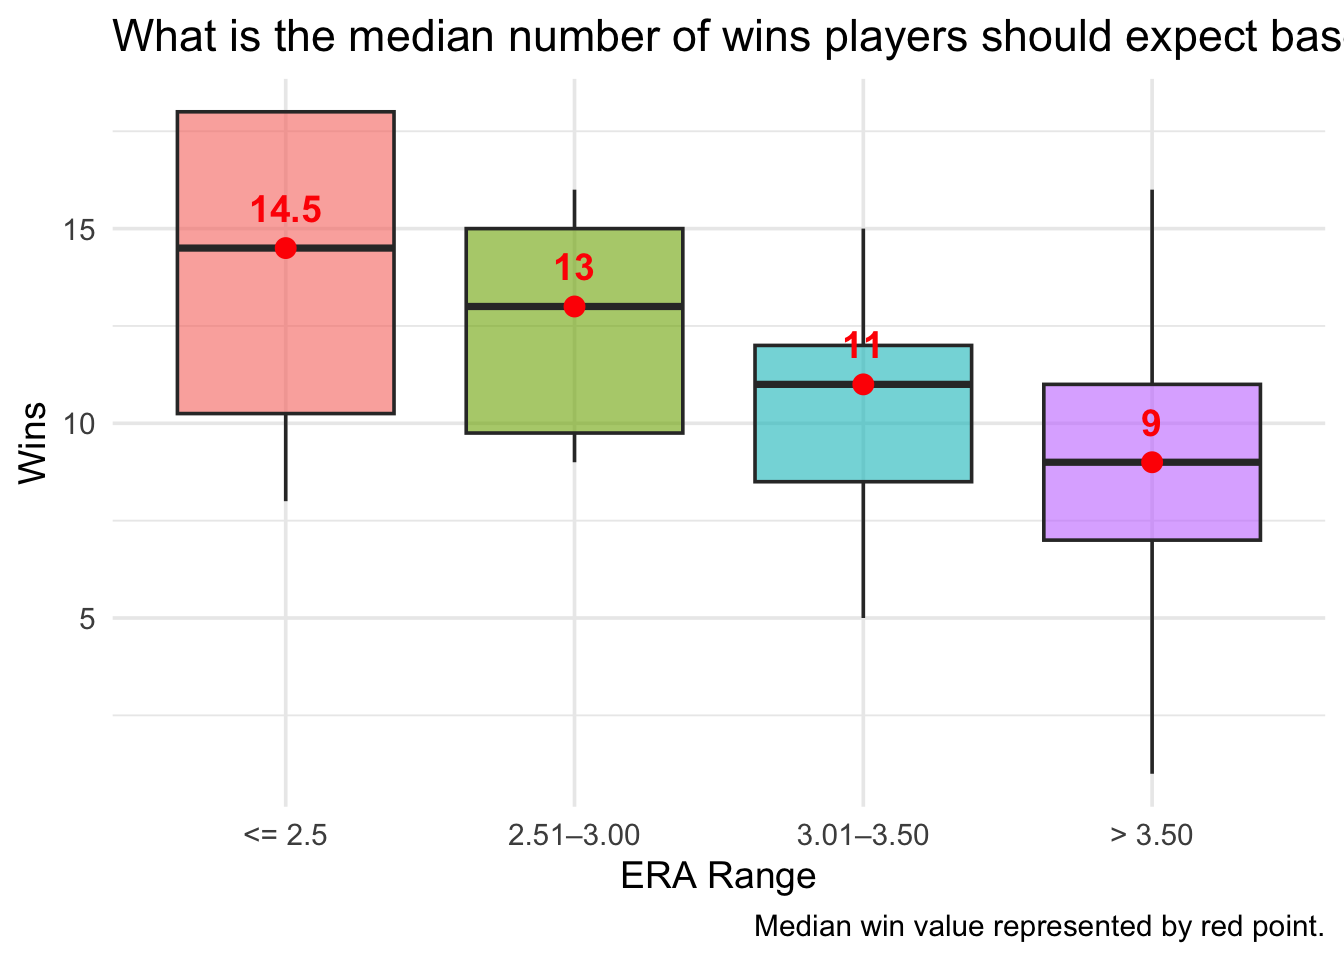
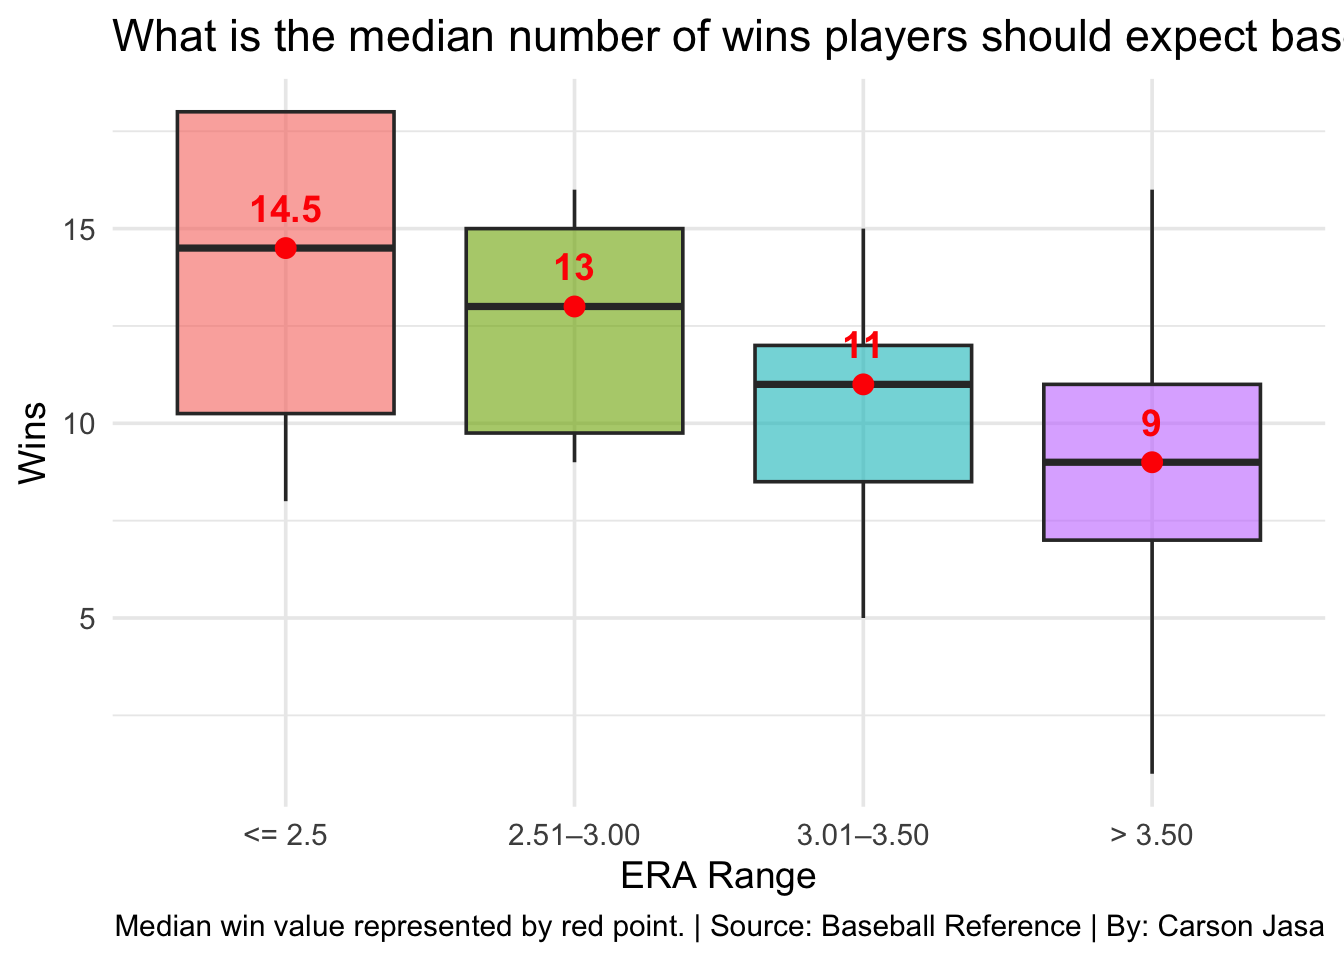
final commit for real

Changed region(s): [[0.5312, 0.9375, 1.0, 1.0], [0.0938, 0.9375, 0.5, 1.0]]

diff --git a/posts/mlb-pitching-wins-era-difference/index.html b/posts/mlb-pitching-wins-era-difference/index.html
@@ -183,7 +183,7 @@ pre > code.sourceCode > span > a:first-child::before { text-decoration: underlin
 <span id="cb1-11"><a href="#cb1-11" aria-hidden="true" tabindex="-1"></a>    <span class="at">title =</span> <span class="st">"MLB's 30 best starters ERA and how many wins they earned."</span> ,</span>
 <span id="cb1-12"><a href="#cb1-12" aria-hidden="true" tabindex="-1"></a>    <span class="at">x =</span> <span class="st">"Earned Run Average (ERA)"</span>,</span>
 <span id="cb1-13"><a href="#cb1-13" aria-hidden="true" tabindex="-1"></a>    <span class="at">y =</span> <span class="st">"Total Wins"</span>,</span>
-<span id="cb1-14"><a href="#cb1-14" aria-hidden="true" tabindex="-1"></a>    <span class="at">caption =</span> <span class="st">"By: Carson Jasa"</span></span>
+<span id="cb1-14"><a href="#cb1-14" aria-hidden="true" tabindex="-1"></a>    <span class="at">caption =</span> <span class="st">"Source: Baseball Reference | By: Carson Jasa"</span></span>
 <span id="cb1-15"><a href="#cb1-15" aria-hidden="true" tabindex="-1"></a>  ) <span class="sc">+</span></span>
 <span id="cb1-16"><a href="#cb1-16" aria-hidden="true" tabindex="-1"></a>  <span class="fu">theme_minimal</span>(<span class="at">base_size =</span> <span class="dv">14</span>)</span></code></pre></div><button title="Copy to Clipboard" class="code-copy-button"><i class="bi"></i></button></div>
 </details>
@@ -253,7 +253,7 @@ pre > code.sourceCode > span > a:first-child::before { text-decoration: underlin
 <span id="cb2-52"><a href="#cb2-52" aria-hidden="true" tabindex="-1"></a>    <span class="at">title =</span> <span class="st">"What is the median number of wins players should expect based on their ERA."</span>,</span>
 <span id="cb2-53"><a href="#cb2-53" aria-hidden="true" tabindex="-1"></a>    <span class="at">x =</span> <span class="st">"ERA Range"</span>,</span>
 <span id="cb2-54"><a href="#cb2-54" aria-hidden="true" tabindex="-1"></a>    <span class="at">y =</span> <span class="st">"Wins"</span>,</span>
-<span id="cb2-55"><a href="#cb2-55" aria-hidden="true" tabindex="-1"></a>    <span class="at">caption =</span> <span class="st">"Median win value represented by red point."</span></span>
+<span id="cb2-55"><a href="#cb2-55" aria-hidden="true" tabindex="-1"></a>    <span class="at">caption =</span> <span class="st">"Median win value represented by red point. | Source: Baseball Reference | By: Carson Jasa"</span></span>
 <span id="cb2-56"><a href="#cb2-56" aria-hidden="true" tabindex="-1"></a>  ) <span class="sc">+</span></span>
 <span id="cb2-57"><a href="#cb2-57" aria-hidden="true" tabindex="-1"></a>  <span class="fu">theme_minimal</span>(<span class="at">base_size =</span> <span class="dv">14</span>) <span class="sc">+</span></span>
 <span id="cb2-58"><a href="#cb2-58" aria-hidden="true" tabindex="-1"></a>  <span class="fu">theme</span>(<span class="at">legend.position =</span> <span class="st">"none"</span>)</span></code></pre></div><button title="Copy to Clipboard" class="code-copy-button"><i class="bi"></i></button></div>
@@ -314,7 +314,7 @@ pre > code.sourceCode > span > a:first-child::before { text-decoration: underlin
 <span id="cb3-41"><a href="#cb3-41" aria-hidden="true" tabindex="-1"></a>    <span class="at">subtitle =</span> <span class="st">"Next to each line is the player it represents and their ERA for the season."</span>,</span>
 <span id="cb3-42"><a href="#cb3-42" aria-hidden="true" tabindex="-1"></a>    <span class="at">x =</span> <span class="st">""</span>,</span>
 <span id="cb3-43"><a href="#cb3-43" aria-hidden="true" tabindex="-1"></a>    <span class="at">y =</span> <span class="st">"Value"</span>,</span>
-<span id="cb3-44"><a href="#cb3-44" aria-hidden="true" tabindex="-1"></a>    <span class="at">caption =</span> <span class="st">"Player label includes ERA value"</span></span>
+<span id="cb3-44"><a href="#cb3-44" aria-hidden="true" tabindex="-1"></a>    <span class="at">caption =</span> <span class="st">"Player label includes ERA value | Source: Baseball Reference | By: Carson Jasa"</span></span>
 <span id="cb3-45"><a href="#cb3-45" aria-hidden="true" tabindex="-1"></a>  ) <span class="sc">+</span></span>
 <span id="cb3-46"><a href="#cb3-46" aria-hidden="true" tabindex="-1"></a>  <span class="fu">theme_minimal</span>(<span class="at">base_size =</span> <span class="dv">14</span>) <span class="sc">+</span></span>
 <span id="cb3-47"><a href="#cb3-47" aria-hidden="true" tabindex="-1"></a>  <span class="fu">theme</span>(</span>

diff --git a/index.html b/index.html
@@ -171,7 +171,7 @@ window.Quarto = {
 
 <div class="quarto-listing quarto-listing-container-default" id="listing-listing">
 <div class="list quarto-listing-default">
[2 lines of base64/hex data omitted]
 <div class="thumbnail"><a href="./posts/mlb-pitching-wins-era-difference/index.html" class="no-external">
 
 <img loading="lazy" src="./posts/mlb-pitching-wins-era-difference/image.png" class="thumbnail-image">
